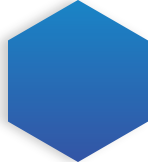
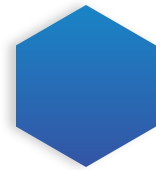
some changes before production

diff --git a/app/css/style.css b/app/css/style.css
@@ -273,9 +273,9 @@ a, img, a:active, a:focus { outline: none; }
 
 .wrapper-gradient:after { width: 100%; height: 341px; position: absolute; top: 0; z-index: -1; background: linear-gradient(to bottom, #b0beca, #ffffff); content: ""; }
 
-.shapes-left-side { width: 50%; float: left; text-align: center; }
+.shapes-left-side { width: 50%; float: left; text-align: center; position: relative; }
 
-.shapes-right-side { width: 50%; float: right; text-align: center; }
+.shapes-right-side { width: 50%; float: right; text-align: center; position: relative; }
 
 .shapes__icon.weather { background-image: url('../img/icons-s989a805627.png'); background-position: 0 -462px; background-repeat: no-repeat; overflow: hidden; display: inline-block; height: 33px; width: 22px; }
 @media (-webkit-min-device-pixel-ratio: 1.5), (min--moz-device-pixel-ratio: 1.5), (-o-min-device-pixel-ratio: 3 / 2), (min-resolution: 1.5dppx) { .shapes__icon.weather { background-image: url('../img/icons-2x-se4975faf27.png'); background-size: 111px auto; background-position: 0 -462px; height: 33px; width: 22px; } }
@@ -283,9 +283,9 @@ a, img, a:active, a:focus { outline: none; }
 .shapes__icon.speed { background-image: url('../img/icons-s989a805627.png'); background-position: 0 -352px; background-repeat: no-repeat; overflow: hidden; display: inline-block; height: 22px; width: 40px; }
 @media (-webkit-min-device-pixel-ratio: 1.5), (min--moz-device-pixel-ratio: 1.5), (-o-min-device-pixel-ratio: 3 / 2), (min-resolution: 1.5dppx) { .shapes__icon.speed { background-image: url('../img/icons-2x-se4975faf27.png'); background-size: 111px auto; background-position: 0 -352px; height: 22px; width: 40px; } }
 
-.shapes__red-shape { background-image: url(../img/hexagon-red.png); background-repeat: no-repeat; height: 162px; width: 150px; display: inline-block; line-height: 133px; }
+.shapes__red-shape:after { content: ""; background-image: url(../img/hexagon-red.png); background-repeat: no-repeat; height: 170px; width: 156px; position: absolute; display: inline-block; line-height: 133px; z-index: 20; right: 4px; top: -6px; }
 
-.shapes__blue-shape { background-image: url(../img/hexagon-blue.png); background-repeat: no-repeat; height: 162px; width: 150px; line-height: 145px; display: inline-block; }
+.shapes__blue-shape:after { content: ""; background-image: url(../img/hexagon-blue.png); background-repeat: no-repeat; height: 170px; width: 156px; position: absolute; line-height: 145px; display: inline-block; z-index: 20; right: 6px; top: -6px; }
 
 .shapes__title { color: white; font-family: PFBeauSansPro-semibold; font-size: 22px; font-weight: 100; }
 .shapes__title.b { margin-bottom: 4px; }
@@ -293,9 +293,9 @@ a, img, a:active, a:focus { outline: none; }
 
 .shapes__text { color: white; font-family: PFBeauSansPro-semibold; font-size: 15px; font-weight: 100; line-height: 15px; }
 
-.shapes-content { display: inline-block; line-height: normal; vertical-align: middle; margin-left: 6px; text-align: center; }
-.shapes-content.b { padding-top: 4px; }
-.shapes-content.r { padding-top: 8px; }
+.shapes-content { display: inline-block; line-height: normal; vertical-align: middle; text-align: center; position: absolute; z-index: 30; }
+.shapes-content.b { padding-top: 10px; margin-left: 16px; right: 25px; top: 23px; }
+.shapes-content.r { padding-top: 12px; margin-left: 12px; right: 20px; top: 12px; }
 
 .content-install .text-title { letter-spacing: 0.4px; line-height: 1.2em; }
 
@@ -377,7 +377,7 @@ a, img, a:active, a:focus { outline: none; }
 
 .bottom-gallery__img-block { float: left; width: 33.3%; font-size: 0; line-height: 0; position: relative; }
 
-.size-it { margin-top: 85% 1; }
+.size-it { margin-top: 85%; }
 
 .bottom-gallery__img_main { min-width: 100%; max-width: 100%; }
 

diff --git a/app/sass/style.sass b/app/sass/style.sass
@@ -723,11 +723,13 @@ $icons-spacing: 15px
     width: 50%
     float: left
     text-align: center
+    position: relative
 
 .shapes-right-side
     width: 50%
     float: right
     text-align: center
+    position: relative
 
 .shapes__icon.weather
     +sprite(weather-icon-install)
@@ -735,21 +737,31 @@ $icons-spacing: 15px
 .shapes__icon.speed
     +sprite(speed-icon-install)
 
-.shapes__red-shape
+.shapes__red-shape:after
+    content: ''
     background-image: url(../img/hexagon-red.png)
     background-repeat: no-repeat
-    height: 162px
-    width: 150px
+    height: 170px
+    width: 156px
+    position: absolute
     display: inline-block
     line-height: 133px
+    z-index: 20
+    right: 4px
+    top: -6px
 
-.shapes__blue-shape
+.shapes__blue-shape:after
+    content: ''
     background-image: url(../img/hexagon-blue.png)
     background-repeat: no-repeat
-    height: 162px
-    width: 150px
+    height: 170px
+    width: 156px
+    position: absolute
     line-height: 145px
     display: inline-block
+    z-index: 20
+    right: 6px
+    top: -6px
 
 .shapes__title
     color: white
@@ -773,12 +785,20 @@ $icons-spacing: 15px
     display: inline-block
     line-height: normal
     vertical-align: middle
-    margin-left: 6px
     text-align: center
+    position: absolute
+    z-index: 30
     &.b
-        padding-top: 4px
+        padding-top: 10px
+        margin-left: 16px
+        right: 25px
+        top: 23px
+
     &.r
-        padding-top: 8px
+        padding-top: 12px
+        margin-left: 12px
+        right: 20px
+        top: 12px
 
 .content-install .text-title
     letter-spacing: 0.4px
@@ -1042,7 +1062,7 @@ $icons-spacing: 15px
     position: relative
 
 .size-it
-    margin-top: 85%1
+    margin-top: 85%
 
 .bottom-gallery__img_main
     min-width: 100%

diff --git a/app/install.html b/app/install.html
@@ -44,7 +44,7 @@
                                         <p>1-2 часа</p>
                                     </div>
                                     <div class="shapes__text">
-                                        <p>время затвердевания
+                                        <p>время <br> затвердевания
                                         </p>
                                     </div>
                                 </div>
